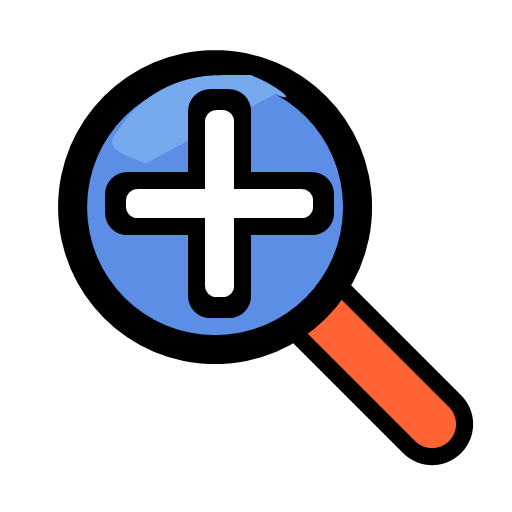
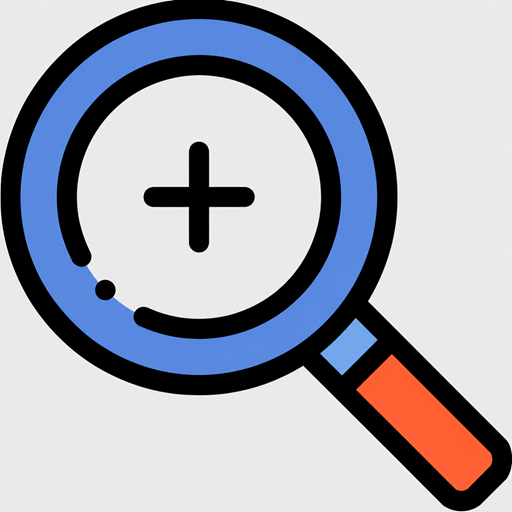
Release version 0.0.3

diff --git a/CHANGELOG.md b/CHANGELOG.md
@@ -2,6 +2,11 @@
 
 All notable changes to this extension are documented in this file.
 
+## 0.0.3
+
+- Replace the Marketplace icon with a smooth, high-resolution zoom illustration.
+- Add attribution for the original icon design.
+
 ## 0.0.2
 
 - Add a Marketplace icon consistent with the visual style of the publisher's other extensions.

diff --git a/README.md b/README.md
@@ -146,3 +146,7 @@ Updates are queued inside the VS Code extension host. This avoids spawning a ter
 ## License
 
 [MIT](LICENSE.md)
+
+## Credits
+
+The icon for this extension is based on the Flaticon library: [Zoom icons created by Magnific - Flaticon](https://www.flaticon.com/free-icons/zoom)